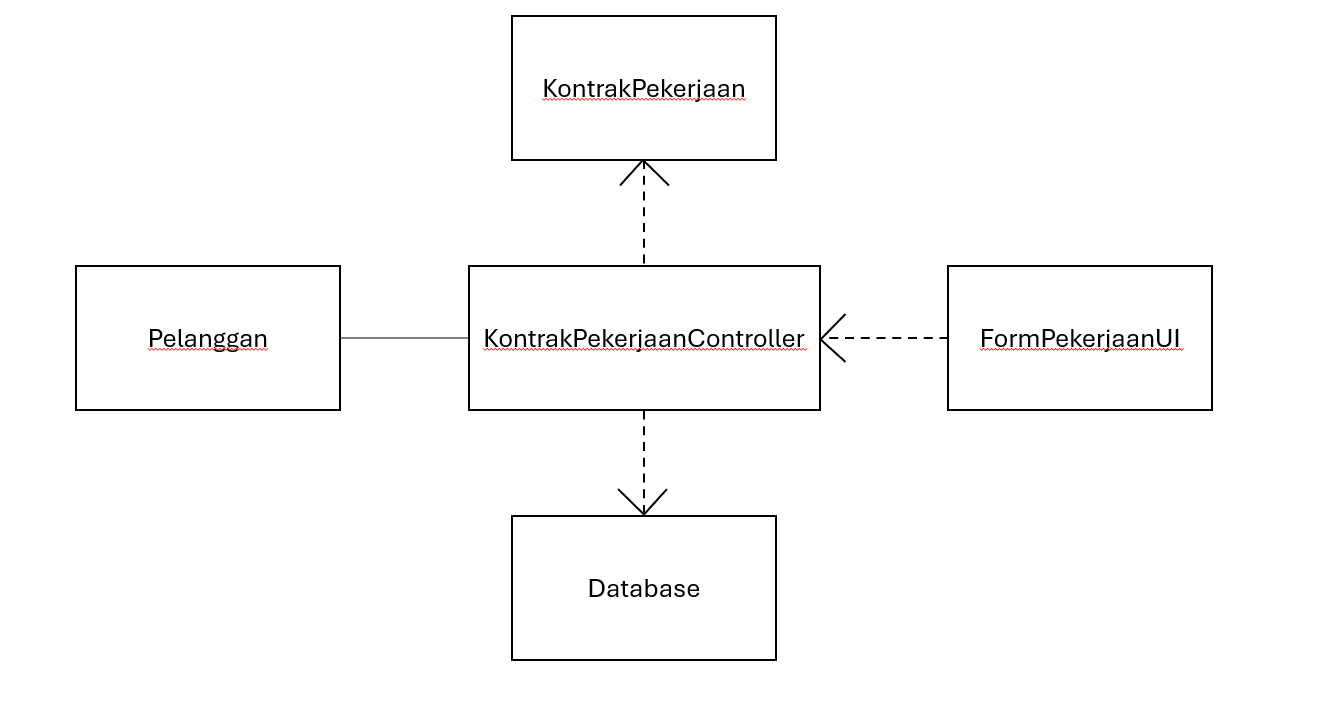
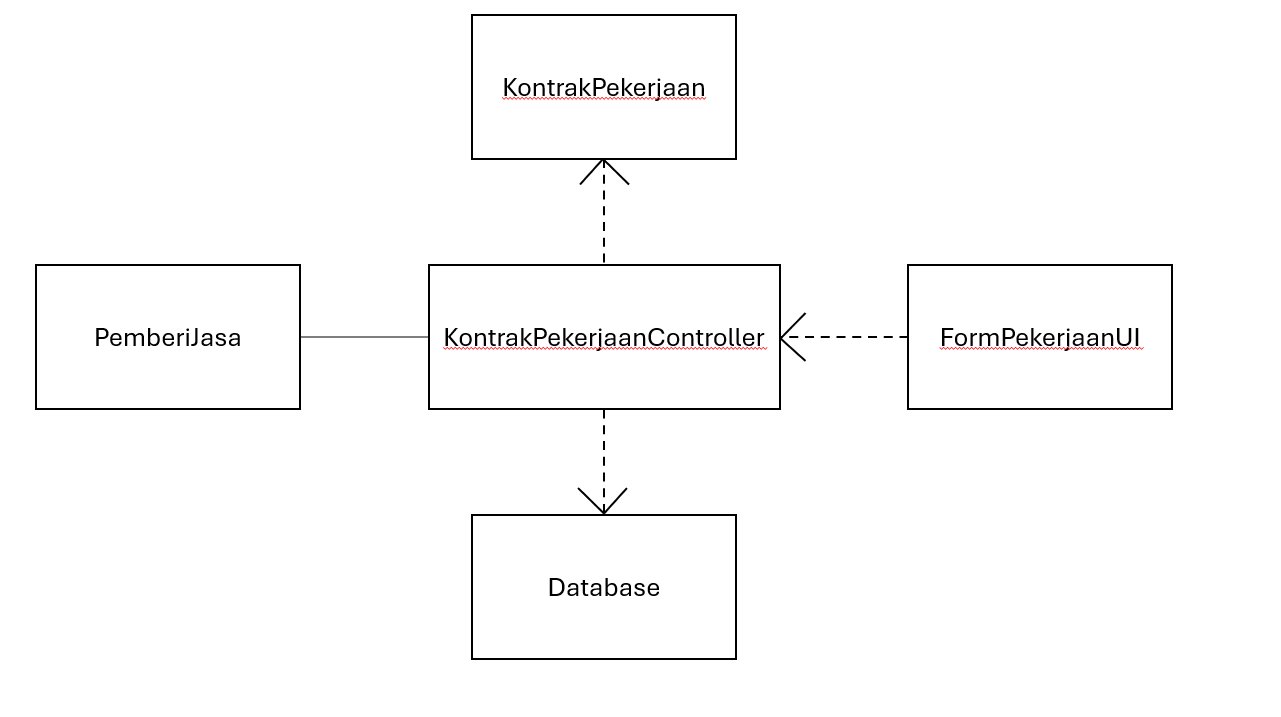
docs: fix formating and picture

diff --git a/docs/M4/K03_G09_CD.md b/docs/M4/K03_G09_CD.md
@@ -484,7 +484,7 @@ Pada diagram kelas, cukup tampilkan nama kelas saja. Atribut dan metode/operasi 
 <img alt="Class Diagram UC01" src="./assets/diagram/Diagram-Class-UC02.jpeg" width="70%">
 </p>
 <p align="center">
-<i>Gambar 2. Diagram Kelas Use Case UC01</i>
+<i>Gambar 3. Diagram Kelas Use Case UC02</i>
 </p>
 <br>
 
@@ -516,7 +516,7 @@ Pada diagram kelas, cukup tampilkan nama kelas saja. Atribut dan metode/operasi 
 <img alt="Class Diagram UC01" src="./assets/diagram/Diagram-Class-UC03.jpeg" width="70%">
 </p>
 <p align="center">
-<i>Gambar 2. Diagram Kelas Use Case UC03</i>
+<i>Gambar 4. Diagram Kelas Use Case UC03</i>
 </p>
 <br>
 
@@ -548,7 +548,7 @@ Pada diagram kelas, cukup tampilkan nama kelas saja. Atribut dan metode/operasi 
 <img alt="Class Diagram UC01" src="./assets/diagram/Diagram-Class-UC04.jpeg" width="70%">
 </p>
 <p align="center">
-<i>Gambar X. Diagram Kelas Use Case UC04</i>
+<i>Gambar 5. Diagram Kelas Use Case UC04</i>
 </p>
 
 | ID Kelas | Nama Kelas | Atribut | Metode/Operasi |
@@ -578,7 +578,7 @@ Pada diagram kelas, cukup tampilkan nama kelas saja. Atribut dan metode/operasi 
 <img alt="Class Diagram UC10" src="./assets/diagram/Diagram-Class-UC05.png" width="70%">
 </p>
 <p align="center">
-<i>Gambar X. Diagram Kelas Use Case UC05</i>
+<i>Gambar 6. Diagram Kelas Use Case UC05</i>
 </p>
 
 | ID Kelas | Nama Kelas | Atribut | Metode/Operasi |
@@ -608,7 +608,7 @@ Pada diagram kelas, cukup tampilkan nama kelas saja. Atribut dan metode/operasi 
 <img alt="Class Diagram UC10" src="./assets/diagram/Diagram-Class-UC06.png" width="70%">
 </p>
 <p align="center">
-<i>Gambar X. Diagram Kelas Use Case UC06</i>
+<i>Gambar 7. Diagram Kelas Use Case UC06</i>
 </p>
 
 | ID Kelas | Nama Kelas | Atribut | Metode/Operasi |
@@ -616,7 +616,7 @@ Pada diagram kelas, cukup tampilkan nama kelas saja. Atribut dan metode/operasi 
 | C03 | PemberiJasa | - | - |
 | C06 | KontrakPekerjaan | detailPekerjaan, persetujuanHarga, idKontrak, statusPekerjaan | +simpanBayaran() +simpanDatabase() +updateStatus() |
 | C13 | Database | databaseHandler | +getDataKontrak() |
-| C23 | FormKontrakUI | inputHarga inputDetailPekerjaan | +tampilkanForm() |
+| C23 | FormPekerjaanUI | inputHarga inputDetailPekerjaan | +tampilkanForm() |
 | C25 | KontrakPekerjaanController | databaseHandler | +buatKontrak() +validasiData() +simpanData() +ubahStatus() +simpanDatabase() |
 
 
@@ -638,7 +638,7 @@ Pada diagram kelas, cukup tampilkan nama kelas saja. Atribut dan metode/operasi 
 <img alt="Class Diagram UC07" src="./assets/diagram/Diagram-Class-UseCase07.jpeg" width="70%">
 </p>
 <p align="center">
-<i>Gambar X. Diagram Kelas Use Case UC07</i>
+<i>Gambar 8. Diagram Kelas Use Case UC07</i>
 </p>
 
 | ID Kelas | Nama Kelas | Atribut | Metode/Operasi |
@@ -670,7 +670,7 @@ Pada diagram kelas, cukup tampilkan nama kelas saja. Atribut dan metode/operasi 
 <img alt="Class Diagram UC08" src="./assets/diagram/Diagram-Class-UseCase08.jpeg" width="70%">
 </p>
 <p align="center">
-<i>Gambar X. Diagram Kelas Use Case UC08</i>
+<i>Gambar 9. Diagram Kelas Use Case UC08</i>
 </p>
 
 | ID Kelas | Nama Kelas | Atribut | Metode/Operasi |
@@ -703,7 +703,7 @@ Pada diagram kelas, cukup tampilkan nama kelas saja. Atribut dan metode/operasi 
 <img alt="Class Diagram UC09" src="./assets/diagram/Diagram-Class-UseCase09.jpeg" width="70%">
 </p>
 <p align="center">
-<i>Gambar X. Diagram Kelas Use Case UC09</i>
+<i>Gambar 10. Diagram Kelas Use Case UC09</i>
 </p>
 
 | ID Kelas | Nama Kelas | Atribut | Metode/Operasi |
@@ -737,7 +737,7 @@ Pada diagram kelas, cukup tampilkan nama kelas saja. Atribut dan metode/operasi 
 <img alt="Class Diagram UC10" src="./assets/diagram/Diagram-kelas-UC10.png?v=1" width="60%">
 </p>
 <p align="center">
-<i>Gambar X. Diagram Kelas Use Case UC10</i>
+<i>Gambar 11. Diagram Kelas Use Case UC10</i>
 </p>
 
 | ID Kelas | Nama Kelas | Atribut | Metode/Operasi |
@@ -770,7 +770,7 @@ Pada diagram kelas, cukup tampilkan nama kelas saja. Atribut dan metode/operasi 
 <img alt="Class Diagram UC11" src="./assets/diagram/Diagram-kelas-UC11.png" width="70%">
 </p>
 <p align="center">
-<i>Gambar X. Diagram Kelas Use Case UC11</i>
+<i>Gambar 12. Diagram Kelas Use Case UC11</i>
 </p>
 
 | ID Kelas | Nama Kelas | Atribut | Metode/Operasi |
@@ -801,7 +801,7 @@ Pada diagram kelas, cukup tampilkan nama kelas saja. Atribut dan metode/operasi 
 <img alt="Class Diagram UC12" src="./assets/diagram/Diagram-kelas-UC12.png" width="70%">
 </p>
 <p align="center">
-<i>Gambar X. Diagram Kelas Use Case UC12</i>
+<i>Gambar 13. Diagram Kelas Use Case UC12</i>
 </p>
 
 | ID Kelas | Nama Kelas | Atribut | Metode/Operasi |
